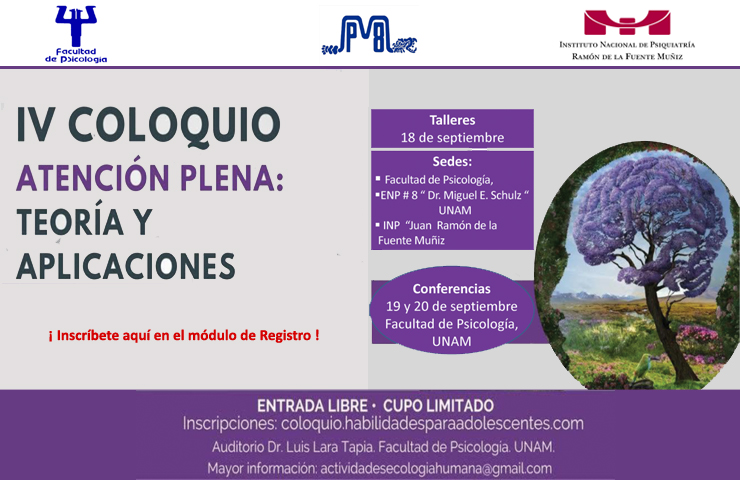
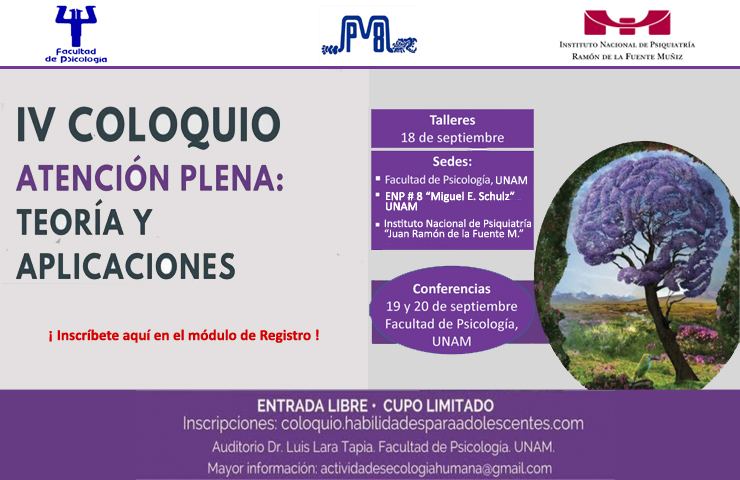
agregue talleres

Changed region(s): [[0.4973, 0.3438, 0.7149, 0.5312]]

diff --git a/templates/landing/talleres.html b/templates/landing/talleres.html
@@ -1,0 +1,48 @@
+{% extends "base.html"%}
+{% block content%}
+    <div class="row">
+      
+        <div class="col-sm-12">
+        <ul class="nav nav-tabs">
+  <li class="active"><a data-toggle="tab" href="#home">Taller 1</a></li>
+  <li><a data-toggle="tab" href="#menu1">Taller 2</a></li>
+  <li><a data-toggle="tab" href="#menu2">Taller 3</a></li>
+  <li><a data-toggle="tab" href="#menu3">Taller 4</a></li>
+</ul>
+
+<div class="tab-content">
+  <div id="home" class="tab-pane fade in active">
+    <h3>Taller 1: El entrenamiento de la Atención Plena para el manejo del estrés. [Turno matutino]</h3>
+    <p>Fecha: lunes 18 de septiembre de 2017</p>
+    <p>Horario: 10:00 a 13:00 hrs.</p>
+    <p>Lugar: Galería de la Preparatoria 8 “Miguel E. Schulz” de la E.N.P. – UNAM</p>
+    <p>Ubicación: Av. Lomas de Plateros y Francisco P. Miranda S/N, Del. Álvaro Obregón, C.P. 01600 Ciudad de México, CDMX.</p>
+  </div>
+  <div id="menu1" class="tab-pane fade">
+    <h3>Taller 2: El entrenamiento de la Atención Plena para el manejo del estrés. [Turno vespertino]</h3>
+    <p>Fecha: lunes 18 de septiembre de 2017</p>
+    <p>Horario: 16:00 a 19:00 hrs.</p>
+    <p>Lugar: Galería de la Preparatoria 8 “Miguel E. Schulz” de la E.N.P. – UNAM</p>
+    <p>Ubicación: Av. Lomas de Plateros y Francisco P. Miranda S/N, Del. Álvaro Obregón, C.P. 01600 Ciudad de México, CDMX.</p>
+  </div>
+  <div id="menu2" class="tab-pane fade">
+    <h3>Taller 3: Conectar desde la igualdad. Género y Mindfulness.</h3>
+    <p>Fecha: lunes 18 de septiembre de 2017</p>
+    <p>Horario: 10:00 a 13:00 hrs.</p>
+    <p>Lugar: Aula A003 – Facultad de Psicología de la UNAM</p>
+    <p>Ubicación: Av. Universidad 3004, Col. Copilco Universidad, Del. Coyoacán, Cd. Universitaria, C.P. 04510, CDMX.</p>
+  </div>
+  <div id="menu3" class="tab-pane fade">
+    <h3>Taller 4: Prácticas contemplativas para la consciencia plena.</h3>
+    <p>Fecha: lunes 18 de septiembre de 2017</p>
+    <p>Horario: 13:00 a 17:00 hrs.</p>
+    <p>Lugar: Aula de Imágenes Cerebrales – Instituto Nacional de Psiquiatría</p>
+    <p>Ubicación: Calzada México Xochimilco No. 101, Colonia San Lorenzo Huipulco, Del. Tlalpan, C.P. 14370, CDMX.</p>
+  </div>
+</div>
+        </div>
+  </div>
+
+{% endblock%}
+
+

diff --git a/templates/base.html b/templates/base.html
@@ -86,7 +86,7 @@
                 <div class="collapse navbar-collapse" id="myNavbar">
                 <ul class="nav navbar-nav">
                     <li><a href="{%url 'landing:index_get_template' page='index' %}">Inicio</a></li>
-                    <!--li><a href="{%url 'landing:index_get_template' page='informacion_general' %}">Información general</a></li-->
+                    <li><a href="{%url 'landing:index_get_template' page='talleres' %}">Talleres</a></li-->
                     <li><a href="{% url 'asistentes:asistentes_new' %}">Registro</a></li>
                 </ul>
                

diff --git a/templates/asistentes/asistentes.html b/templates/asistentes/asistentes.html
@@ -135,11 +135,12 @@ $(document).ready(function() {
          var asistencia_talleres = $( '#id_asistencia_talleres option:selected' ).val();
          if(asistencia_talleres == "Si"){
             $('#id_taller').prop('disabled', false);
+            $('#id_taller').prop('required', true);
             
 
          }else if(asistencia_talleres == "No"){
             $('#id_taller').prop('disabled', true);
-            
+            $('#id_taller').prop('required', false);
          }
       });
 
